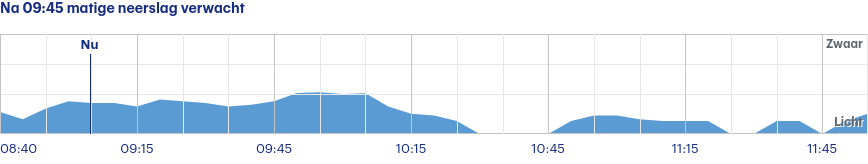
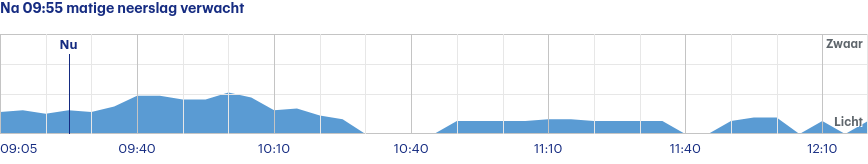
Latest scraping buienradar: Sun Jun 18 07:20:50 UTC 2023

diff --git a/scrapes/buienradar/buienradar-jette-3-uur.md b/scrapes/buienradar/buienradar-jette-3-uur.md
@@ -1,4 +1,4 @@
-Na 09:45 matige neerslag verwacht
+Na 09:55 matige neerslag verwacht
 
 ![](buienradar-jette-3-uur.png)
 
